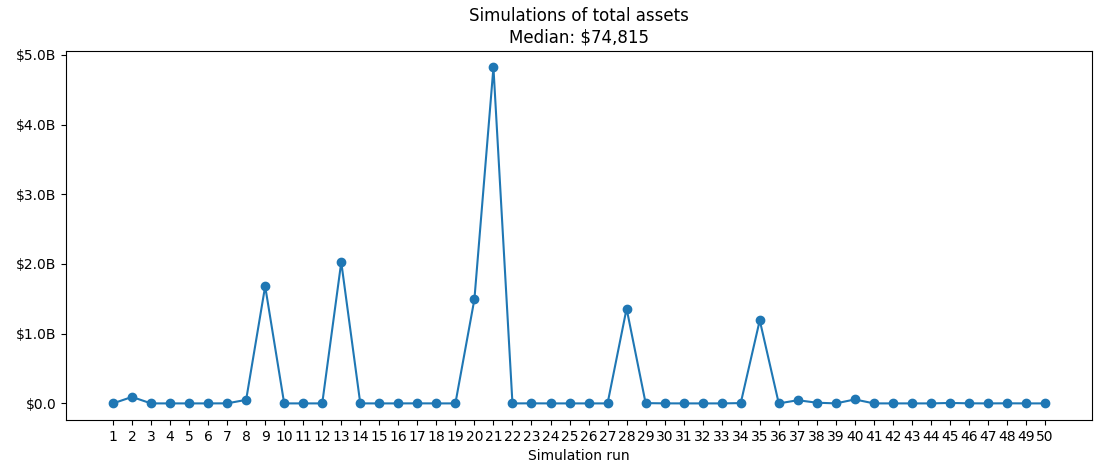
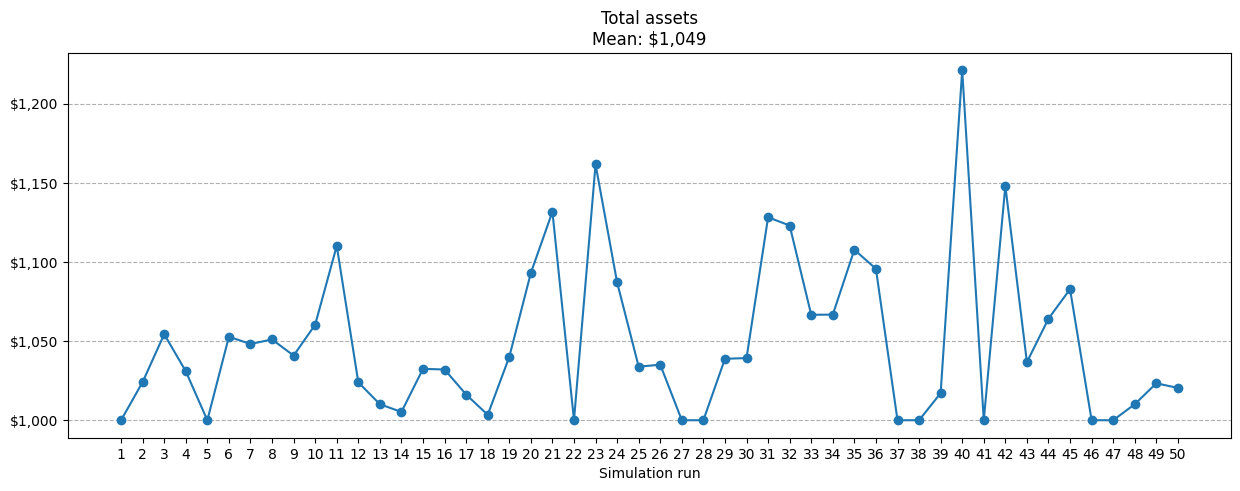
Refactor as object-oriented code

diff --git a/simulation.py b/simulation.py
@@ -1,100 +1,118 @@
 import math
-from random import randint
-from statistics import median
+from random import choice
+from statistics import mean
 
 import matplotlib.pyplot as plt
 import pandas
 from matplotlib import ticker
-from matplotlib.ticker import FuncFormatter
 
-from trading_strategies import implement_trading_strategy
+import player
 
-# Define constants
-STARTING_PRICE = 0.1
-DURATION_IN_MINS = 60
-TRADE_GAP_IN_SECS = 5
+# Define coin constants
+STARTING_PRICE_IN_DOLLARS = 0.1
+MAXIMUM_POOL_OF_COINS = 1000000
+
+# Define time constants
+DURATION_IN_MINUTES = 60
+TRADE_GAP_IN_SECONDS = 5
+
+# Define player constants
+STARTING_MONEY_IN_DOLLARS = 1000
+NUM_OTHER_PLAYERS = 9
+
+# Define simulation constants
 NUM_SIMULATIONS = 50
-NUM_PLAYERS = 10
-NUM_TRADES = int(60.0 / TRADE_GAP_IN_SECS * DURATION_IN_MINS)
 
 # Initialise list to store results from each simulation
 results = []
 
 # Iterate simulations
 for simulation in range(NUM_SIMULATIONS):
+
+    # Initialise simulation parameters
+    seconds_remaining = DURATION_IN_MINUTES * 60
+    PRICE_FACTOR = STARTING_PRICE_IN_DOLLARS * MAXIMUM_POOL_OF_COINS
+    price = PRICE_FACTOR / MAXIMUM_POOL_OF_COINS
+    pool_of_coins = MAXIMUM_POOL_OF_COINS
+    trade = 0
+
     # Initialise dictionary to store the history of prices in previous transactions
     history_dict = {
         'transaction': [0],
-        'price_history': [STARTING_PRICE],
-        'minutes_remaining': [DURATION_IN_MINS],
+        'price_history': [price],
+        'minutes_remaining': [DURATION_IN_MINUTES],
     }
 
-    # Initialise starting amount of money and coins
-    money = 1000
-    coins = 0
+    # Initialise players
+    main_player = player.MainPlayer(money=STARTING_MONEY_IN_DOLLARS)
+    players = [main_player]
+    for _ in range(0, NUM_OTHER_PLAYERS):
+        random_player = player.RandomPlayer(money=STARTING_MONEY_IN_DOLLARS)
+        players.append(random_player)
 
     # Iterate trades
-    for trade in range(1, NUM_TRADES + 1):
+    while seconds_remaining > 0:
 
-        # Calculate new price
+        # Extract current price (corresponding to the price of the previous transaction)
+        if seconds_remaining == DURATION_IN_MINUTES * 60:
+            history = pandas.DataFrame({})
+        else:
+            history = pandas.DataFrame(history_dict)
         current_price = history_dict['price_history'][-1]
-        price_fluctuation = randint(-10, 10)
-        new_price = round(max(current_price + price_fluctuation / 100, 0.01), 2)
+
+        # Randomly select player
+        selected_player = choice(players)
+        trade_decision, trade_proportion = selected_player.implement_trading_strategy(history)
+
+        # Buy coins
+        if trade_decision == 'buy':
+            money_to_spend = selected_player.money * trade_proportion
+            coins_to_buy = int(money_to_spend // current_price)
+            selected_player.coins += coins_to_buy
+            pool_of_coins -= coins_to_buy
+            money_spent = coins_to_buy * current_price
+            selected_player.money -= money_spent
+
+        # Sell coins
+        if trade_decision == 'sell':
+            coins_to_sell = int(math.floor(selected_player.coins * trade_proportion))
+            selected_player.coins -= coins_to_sell
+            pool_of_coins += coins_to_sell
+            money_earned = coins_to_sell * current_price
+            selected_player.money += money_earned
+
+        # Update price
+        try:
+            price = PRICE_FACTOR / pool_of_coins
+        except ZeroDivisionError:
+            price = price
 
         # Update history
-        revised_minutes_remaining = history_dict['minutes_remaining'][-1]
-        if trade % 12 == 0:
-            revised_minutes_remaining -= 1
+        trade += 1
+        seconds_remaining -= TRADE_GAP_IN_SECONDS
+        minutes_remaining = seconds_remaining // 60
         history_dict['transaction'].append(trade)
-        history_dict['price_history'].append(new_price)
-        history_dict['minutes_remaining'].append(revised_minutes_remaining)
-        history = pandas.DataFrame(history_dict)
-
-        # Determine ability to trade
-        selected_player = randint(1, NUM_PLAYERS)
-        if selected_player == 1:
-            trade_decision, trade_proportion = implement_trading_strategy(history)
-
-            # Buy coins
-            if trade_decision == 'buy':
-                money_to_spend = money * trade_proportion
-                coins_to_buy = int(money_to_spend // new_price)
-                coins += coins_to_buy
-                money_spent = coins_to_buy * new_price
-                money -= money_spent
-
-            if trade_decision == 'sell':
-                coins_to_sell = int(math.floor(coins * trade_proportion))
-                coins -= coins_to_sell
-                money_earned = coins_to_sell * new_price
-                money += money_earned
+        history_dict['price_history'].append(price)
+        history_dict['minutes_remaining'].append(minutes_remaining)
 
     # Store results of simulation
-    total_assets = money + coins * new_price
-    results.append(total_assets)
+    for p in players:
+        p.total_assets = p.money + p.coins * price
+    results.append(players[0].total_assets)
 
-# Calculate average result
-median_total_assets = median(results)
-
-
-# Define formatting function for y-axis
-def human_format(num, pos):
-    magnitude = 0
-    while abs(num) >= 1000:
-        magnitude += 1
-        num /= 1000.0
-    return '$%.1f%s' % (num, ['', 'K', 'M', 'B'][magnitude])
-
+# Calculate mean of results
+mean_total_assets = mean(results)
 
 # Plot results
 x = list(range(1, NUM_SIMULATIONS + 1))
 y = results
-fig, ax = plt.subplots()
+fig, ax = plt.subplots(figsize=(15, 5))
 ax.plot(x, y, marker='o', linestyle='-')
-plt.title(f'Simulations of total assets\nMedian: ${median_total_assets:,.0f}')
+plt.title(f'Total assets\nMean: ${mean_total_assets:,.0f}')
 plt.xlabel('Simulation run')
 ax.xaxis.set_major_locator(ticker.FixedLocator(x))
 ax.xaxis.set_major_formatter(ticker.FixedFormatter(list(map(str, x))))
-formatter = FuncFormatter(human_format)
-ax.yaxis.set_major_formatter(formatter)
+ax.yaxis.set_major_formatter(ticker.StrMethodFormatter('${x:,.0f}'))
+plt.grid(axis='y', linestyle='--')
 plt.show()
+fig.savefig('plot.png', bbox_inches='tight')

diff --git a/player.py b/player.py
@@ -1,0 +1,31 @@
+from random import choice, random
+
+
+class RandomPlayer:
+    def __init__(self, money):
+        self.money = money
+        self.coins = 0
+        self.total_assets = 0
+
+    def implement_trading_strategy(self, history):
+        random_trade_decision = choice(['buy', 'sell', 'hold'])
+        random_trade_proportion = random()
+        return random_trade_decision, random_trade_proportion
+
+
+class MainPlayer(RandomPlayer):
+    def __init__(self, money):
+        super().__init__(money)
+
+    def implement_trading_strategy(self, history):
+        if history.empty:
+            return 'buy', 1
+        else:
+            most_recent_price = history.tail(1).price_history.iloc[0]
+            lower_quantile = history.price_history.quantile(0.1)
+            upper_quantile = history.price_history.quantile(0.9)
+            if most_recent_price <= lower_quantile:
+                return 'buy', 1
+            if most_recent_price >= upper_quantile:
+                return 'sell', 1
+            return 'hold', 0

diff --git a/README.md b/README.md
@@ -1,10 +1,13 @@
-# Simulations of the Tulip Coin Coding Challenge
+# Simulations of the Tulip Coin coding challenge
 
-To run a simulation:
+To run a suite of simulations:
 
-- Define the trading strategy in the function `implement_trading_strategy()` in the `trading_strategies.py` script.
-- Tweak the simulation parameters under the section `# Define constants` of the `simulation.py` script as desired.
+- Define the trading strategies in the functions `implement_trading_strategy()` in the `player.py` script.
+- Tweak as desired the simulation parameters under the `# Define constants` sections at the top of the `simulation.py`
+  script.
 - Ensure the packages [pandas](https://pandas.pydata.org/) and [matplotlib](https://matplotlib.org/) are installed, and
   then run `simulation.py`.
+
+The results shown are for the main player.
 
 ![](plot.png)
